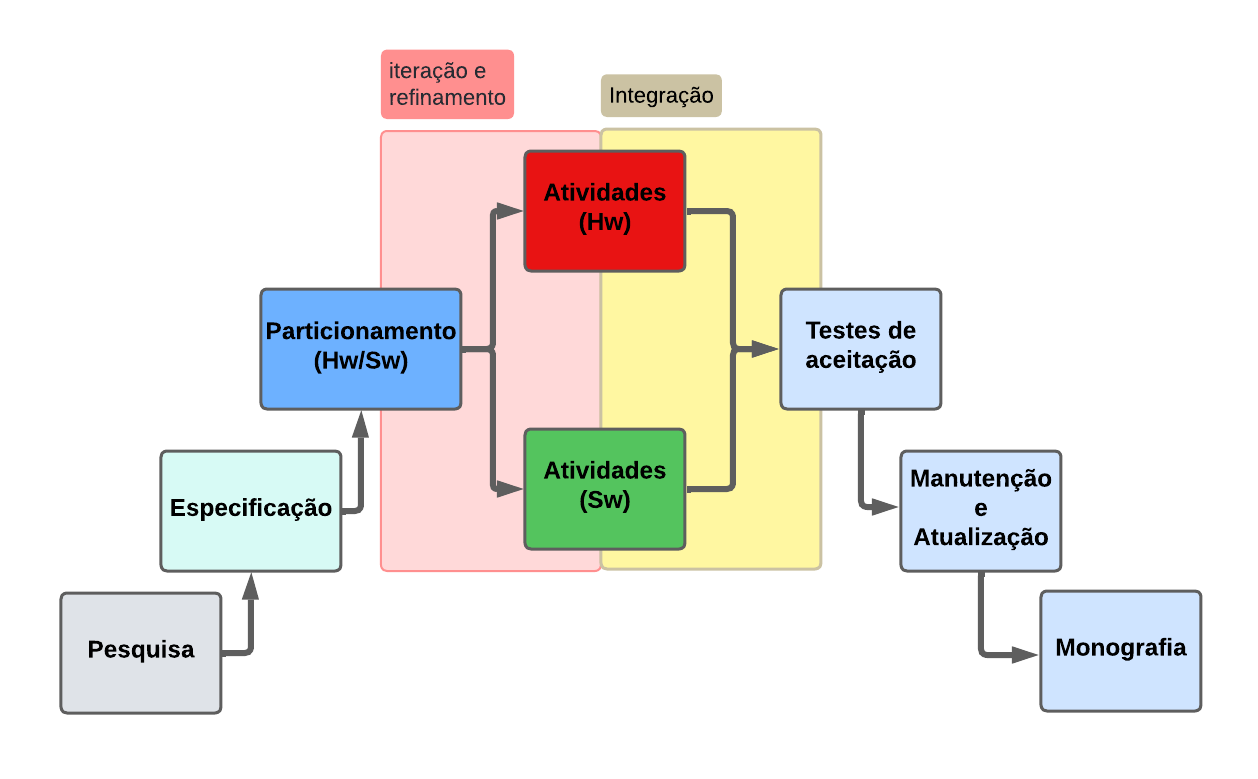
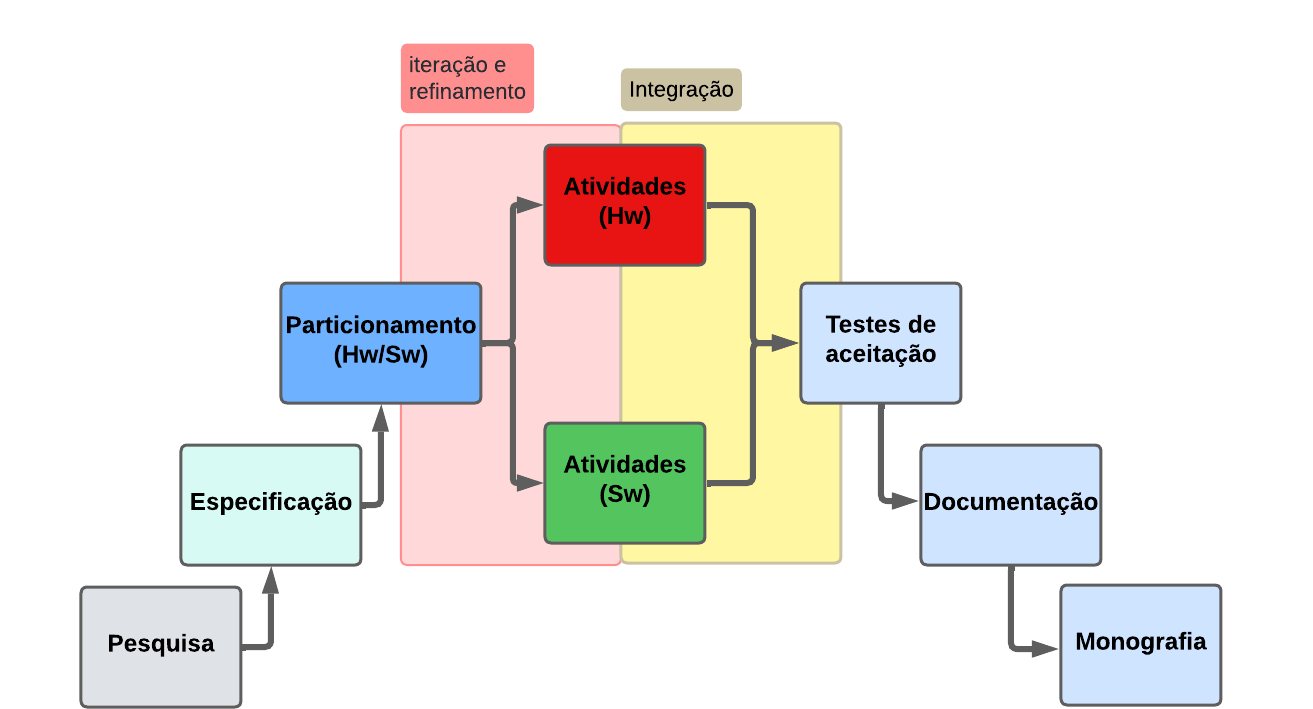
adiciona seção 3.1 pesquisa

Changed region(s): [[0.031, 0.0621, 0.961, 1.0]]

diff --git a/main/files/CAP3.tex b/main/files/CAP3.tex
@@ -1,26 +1,64 @@
 \chapter{Proposta de solução}
 
-Este capítulo detalha a execução da proposta, abordando a concepção, desenvolvimento e 
-implantação do sistema embarcado Android, denominado ``BURI''. Ao longo do capítulo, será apresentada uma explicação de todos os 
-módulos e técnicas que compõem a solução, desde as etapas iniciais de pesquisa e levantamento de requisitos, passando pela modelagem da arquitetura do sistema, 
-até o desenvolvimento e validação do protótipo final. Portanto, cada tópico apresentado a seguir trata-se de uma fase da metodologia 
-explicada na Seção \ref{cap1Metodologia}. O desenvolvimento deste projeto envolveu a aplicação de técnicas de engenharia de software e hardware, contemplando desafios 
-como a integração eficiente entre os componentes do sistema, as várias formas de transmissão dos dados, e a criação de uma interface intuitiva para o aplicativo Android.
+Neste capítulo serão apresentados os componentes e procedimentos utilizados na elaboração da proposta de solução, denominada de ``BURI''. Conforme as
+etapas definidas na metodologia, ocorre inicialmente a discussão sobre a fase de pesquisa na Seção \ref{fase1}, seguida pela especificação 
+das funcionalidades e comportamento do sistema BURI, contextualizados na Seção \ref{fase2}. O particionamento e execução de atividades nas áreas de 
+\textit{hardware} e \textit{software} são explicados nas Seções \ref{fase3} e \ref{fase4}, respectivamente. Na Seção \ref{fase5},  o aplicativo Android e o 
+dispositivo físico são avaliados por um grupo selecionado de alunos, a fim de garantir a usabilidade do sistema proposto e, posteriormente, são produzidas a documentação 
+do projeto e guia de instalação na Seção \ref{fase6}. 
 
-\section{Pesquisa}
+\section{Pesquisa}\label{fase1}
 
-Na pesquisa, o objetivo principal é encontrar trabalhos relacionados e entender as consequências fisiológicas causadas pela 
-inalação de monóxido de carbono (CO). Portanto, o texto base para a explicação científica sobre o composto foi retirado 
-do artigo ``Carbon monoxide poisoning: a review for clinicians'' \cite{carbon-monoxide-poisoning-varon}, pois o texto possui 
-uma explicação técnica e didática de como ocorre esse envenenamento, consequências no sistema neurológico e cardiovascular, fontes de 
-contaminação e métodos de tratamento utilizados na medicina.
+A primeira fase consiste na compreensão do problema. O objetivo é encontrar trabalhos semelhantes sobre o uso de IoT no monitoramento da qualidade do ar, assim 
+como as consequências fisiológicas de inalação prolongada de monóxido de carbono, e identificar, através de um questionário aplicado aos alunos, as preocupações relacionadas 
+à qualidade do ar no ambiente doméstico.
 
-Sobre o desenvolvimento no AOSP, o trabalho \textit{Sumaúma} \cite{ufam-aosp-sumama} tem importância central no desenvolvimento de 
-soluções nativas para o Android, uma vez que o processo de criação de \textit{drives}, bibliotecas e prototipação do dispositivo físico são 
-explicados em detalhes na monografia de referência, assim como o desenvolvimento do aplicativo utilizando a linguagem de programação Java.
+Em primeiro lugar, realizou-se uma revisão da literatura para identificar pesquisas no âmbito de tecnologias IoT e monitoramento do ar com foco 
+em prevenção de acidentes, porém foram selecionados cinco trabalhos acadêmicos para o desenvolvimento deste projeto e comparação de funcionalidades. Em destaque, o 
+trabalho de Sá considerou a detecção em tempo real do Gás Liquefeito de Petróleo (GLP) na residência \cite{uea-iot-deteccao-incendio}, atuando na prevenção de incêndio por vazamento de gás e servindo como referência para o desenvolvimento 
+do \textit{hardware} do BURI. Por outro lado, o trabalho ``Intelligent based novel embedded system based IoT enabled
+air pollution monitoring system'' \cite{tbRelacionado4NovelEmbeddedSystem} abordou uma arquitetura de comunicação em rede e processo de calibração de sensores
+fundamental para o desenvolvimento do \textit{software} deste projeto de conclusão de curso.
 
-AINDA ESTOU ESCREVENDO ESSA PARTE
-Adevan Neves Santos JAVA BACKEND
+Além disso, o estudo da intoxicação por monóxido de carbono visa investigar as consequências para a saúde humana. Portanto, a explicação científica sobre o tema é do 
+artigo ``Carbon monoxide poisoning: a review for clinicians'' \cite{carbon-monoxide-poisoning-varon}, pois o conteúdo inclui 
+explicação técnica e didática do processo de envenenamento, consequências no sistema neurológico e cardiovascular, fontes de contaminação e métodos de tratamento utilizados na medicina.
 
-\section{Especificação}
+Por fim, um questionário foi aplicado aos alunos da Escola Superior de Tecnologia da Universidade do Estado do Amazonas (EST/UEA) para coletar informações sobre suas preocupações relacionadas à qualidade do ar no ambiente doméstico.
+A pesquisa buscou identificar as configurações do ambiente residencial desses alunos e avaliar seu nível de conscientização sobre os riscos associados a poluentes no ar. Ao todo, 
+58 estudantes das áreas de Engenharia responderam a este primeiro questionário.
 
+Os resultados obtidos com as respostas trouxeram dados valiosos para a construção do protótipo. Em particular, algumas questões revelaram tendências e 
+preocupações específicas, que serão analisadas a seguir. Segundo a pesquisa, 75,9\% dos estudantes utilizam um \textit{smartphone} com 
+Sistema Operacional Android, pois a tecnologia representa uma importante fonte de acesso à informação e inclusão digital no Brasil \cite{impacto-android-brasil}. Outro aspecto analisado foi 
+a percepção dos alunos em relação à qualidade do ar em suas residências e arredores. Nas respostas discursivas, foram frequentes os relatos sobre a presença de fumaça em dias específicos, 
+atribuída às queimadas recorrentes na região de Manaus. Como relatou um dos alunos: ``a fumaça se tornou um problema pra resolver isso decidimos comprar um umidificador de ar''. 
+
+Evidência dos relatos, a Universidade do Estado do Amazonas (UEA) suspende atividades presenciais nos dias 19 e 20 de agosto na capital e interior por causa 
+da alta quantidade de poluentes, pois os índices ultrapassaram a marca de 125 $\mu m/m^{3}$ e um ar de boa qualidade permite a concentração de partículas em  até 25 $\mu m/m^{3}$ \cite{uea-queima-fecha}. 
+
+\begin{figure}[ht]
+    \centering
+    \includegraphics[width=.67\textwidth]{img/graf1-SO-smartphone.png}
+    \caption{Sistemas Operacionais dos \textit{smartphones} dos alunos da EST. Fonte:Autor}\label{figSOsmartphone}
+\end{figure}
+
+A seguir, a figura \ref{figWifiAlunos} ilustra a porcentagem de estudantes com rede Wi-Fi em suas residências. Após essa análise, observou-se que 
+a grande maioria possui acesso à rede Wi-Fi. Esse fator é especialmente relevante para a viabilidade do projeto, uma vez que a conectividade 
+constante permitirá o funcionamento do sistema \textit{online}.
+
+\begin{figure}[ht]
+    \centering
+    \includegraphics[width=.67\textwidth]{img/graf1-wifi.png}
+    \caption{Uso de Wi-Fi dos alunos da EST. Fonte:Autor}\label{figWifiAlunos}
+\end{figure}
+
+\section{Especificação}\label{fase2}
+
+\section{Particionamento (Hw/Sw)}\label{fase3}
+
+\section{Execução de Atividades}\label{fase4}
+
+\section{Testes de aceitação}\label{fase5}
+
+\section{Manutenção e atualização}\label{fase6}

diff --git a/main/files/CAP2.tex b/main/files/CAP2.tex
@@ -316,6 +316,13 @@ pela dependência que alguns sensores de gás possuem em relação à temperatur
 necessidade de cada componente. Na \textit{cloud}, o servidor HTTP fornece APIs para os clientes consultarem todos os dados de qualidade do ar, por exemplo, o aplicativo Android com 
 gráficos das medições de cada variável medida e o histórico do mês.
 
-O trabalho ``Automação residencial de monitoramento de gás por meio da plataforma Arduino e IOT'' \cite{sistema-antivazamento} teve como objetivo descrever a implementação de um sistema de automação 
-residencial inteligente para monitoramento e alerta de vazamento de gás utilizando a Internet das Coisas (IoT), o sistema consiste em um microcontrolador Arduino UNO 
+O trabalho acadêmico ``Automação residencial de monitoramento de gás por meio da plataforma Arduino e IOT'' \cite{sistema-antivazamento} teve como objetivo descrever as etapas de implementação e resultados alcançados de um sistema de automação 
+residencial inteligente para monitoramento e alerta de vazamento de gás utilizando a Internet das Coisas (IoT). O sistema consiste em um microcontrolador Arduino UNO 
 conectado a um sensor de gás MQ-5 e um módulo bluetooth HC-05, que envia os dados para um aplicativo Android desenvolvido na plataforma Android Studio.
+
+Apesar dos exemplos de trabalhos já existentes na perspectiva de sistemas de monitoramento do ar e gases tóxicos, a solução deste trabalho de conclusão de curso diferencia-se na comunicação e envio de dados com acesso à internet ou não, além do envio de notificações 
+baseado na quantidade de monóxido de carbono atual do ambiente, que informa os efeitos de exposição no organismo. Além dos aspectos mencionados, o sistema possui foco na interatividade do usuário doméstico, pois o processo de configuração do protótipo físico é
+simplificado, análogo ao da instalação de um roteador de internet.
+
+Outro destaque é o aplicativo Android para visualização dos dados em tempo real, que proporciona praticidade e controle em situações de risco, ao possibilitar o acompanhamento contínuo 
+sem necessidade de dispositivos adicionais, garantindo ao usuário uma maior segurança e controle sobre a qualidade do ar em sua residência. Portanto, a solução proposta no contexto deste trabalho é voltada para o ambiente residencial, porém seu uso é adaptável facilmente a outros ambientes \textit{indoor}, como escritórios corporativos ou hospitais. 

diff --git a/main/files/CAP1.tex b/main/files/CAP1.tex
@@ -66,12 +66,12 @@ processo de desenvolvimento, porém sua complexidade exige um maior cuidado com 
 \end{enumerate}
 
 Contudo, o método original trata do desenvolvimento de um produto (e não de uma pesquisa acadêmica). Dito isso, o processo sofreu as seguintes 
-adaptações ao contexto da universidade: a primeira fase deverá conter a pesquisa de trabalhos relacionados, domínio do problema e questionários com potenciais usuários, enquanto sua última etapa trata de documentação e escrita 
+adaptações ao contexto da universidade: a primeira fase deverá conter a pesquisa de trabalhos relacionados, domínio do problema e questionários com potenciais usuários, enquanto suas últimas etapas tratam da documentação e escrita 
 da monografia, como resultado do trabalho de conclusão de curso. Portanto, a seguinte figura demonstra a metodologia utilizada na execução do sistema BURI: 
 
 \begin{figure}[ht]
 \centering
-\includegraphics[width=.75\textwidth]{img/diagrama-metodologia.png}
+\includegraphics[width=.82\textwidth]{img/diagrama-metodologia.png}
 \caption{Fluxo de atividades. Fonte: Elaboração própria com base  em \cite{system-design-IOT}}\label{figMetodologia}
 \end{figure}
 
@@ -97,5 +97,5 @@ deverão ser revistos para identificar a causa do problema. O ciclo encerra com 
 
 Os testes de aceitação e lançamento do protótipo serão realizados com os usuários finais do sistema. A fase consiste em aplicar questionários para um grupo de pessoas sobre o uso 
 do sistema embarcado, considerando dificuldades em configurar o aparelho, uso do aplicativo, notificações e disparo de de alerta, para, ao final, identificar fatores na interação com o sistema que 
-merecem revisão. Em penúltimo, a manutenção do sistema e atualização do protótipo é o momento em que todo o projeto será estruturado para o uso do público geral, assim como a confecção do guia 
+merecem revisão. Em penúltimo, a documentação do sistema e atualização do protótipo é o momento em que todo o projeto será estruturado para o uso do público geral, assim como a confecção do guia 
 de instalação. Por fim, a última etapa consiste na escrita da monografia e consolidação dos resultados obtidos com a defesa do trabalho de conclusão de curso.
